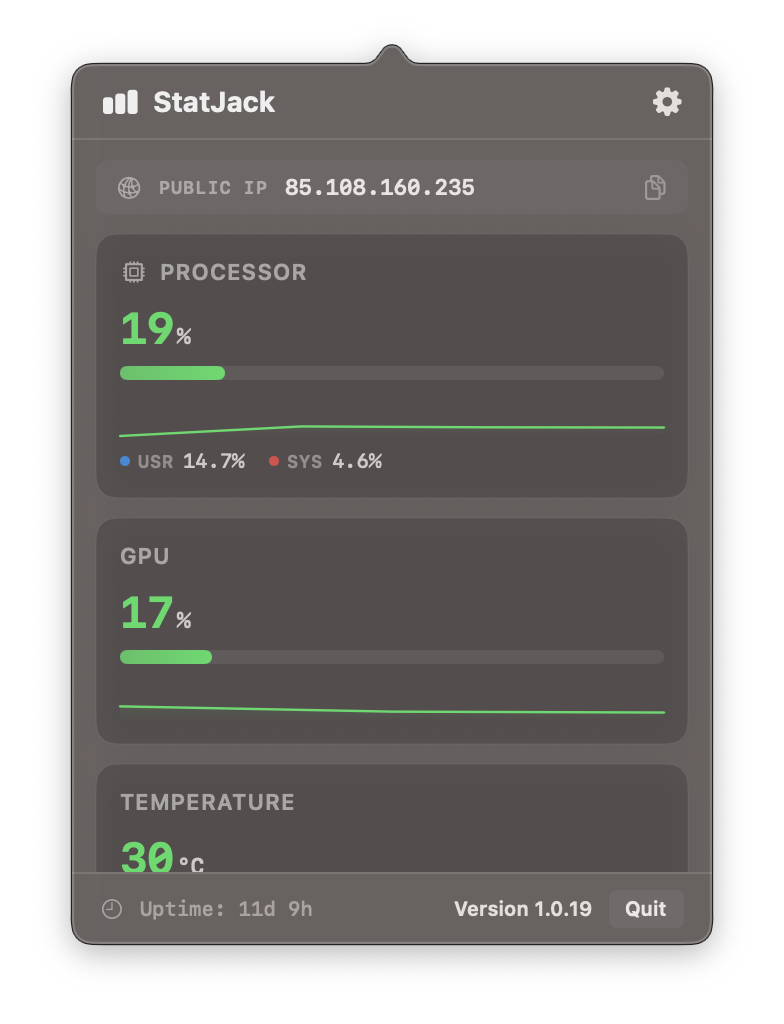
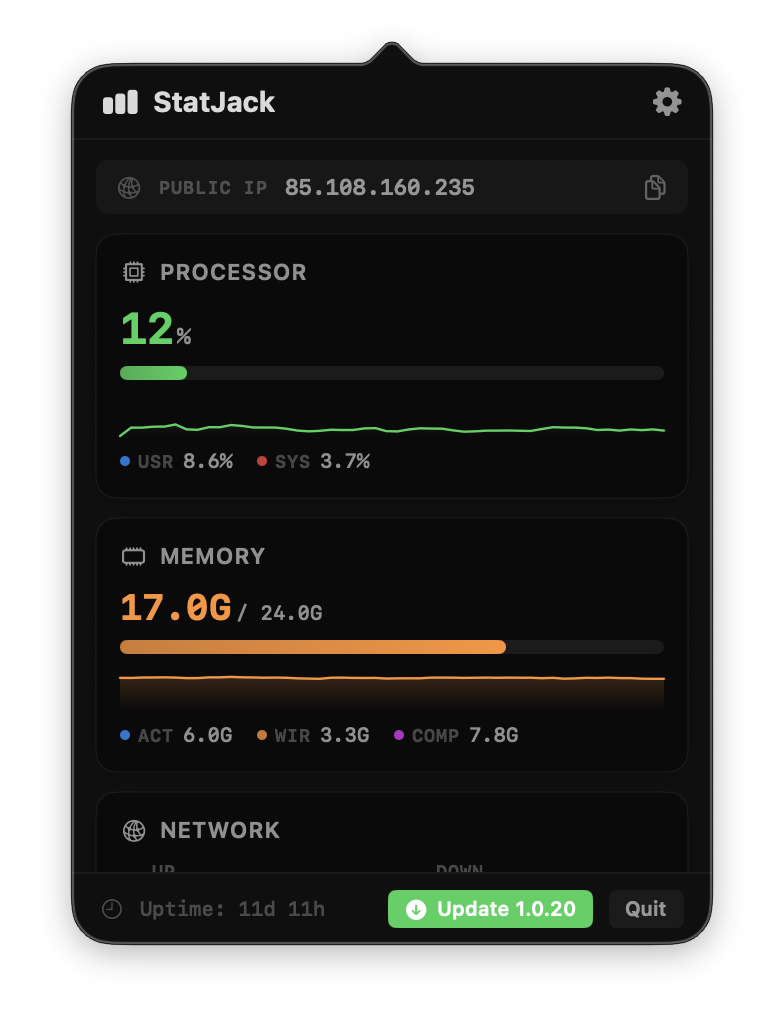
Drop CPU Badge, refresh README screenshots, bust shields cache
- Remove the Dock-icon CPU badge feature entirely. NSDockTile.badgeLabel
  rendering is unreliable for menu-bar agent apps that toggle activation
  policy at runtime, and there's no clean fix without bigger surgery.
  Drops the AppSettings.showDockBadge flag, the Dock-section toggle row,
  and the AppDelegate updateDockBadge plumbing. dockTile.badgeLabel is
  cleared once on launch in case a previous version left a stale label.
- README screenshots: replace dashboard.png with the post-1.0.20 view,
  add extras.png (GPU + Temperature) and alerts.png (threshold sliders +
  in-app update button). Drop the obsolete settings.png.
- Add cb=2 query to the shields.io download/release badges so GitHub's
  camo cache fetches a fresh SVG (current cached version stuck on a much
  older release).

diff --git a/StatJack/AppDelegate.swift b/StatJack/AppDelegate.swift
@@ -29,6 +29,7 @@ final class AppDelegate: NSObject, NSApplicationDelegate, NSPopoverDelegate {
         popover = NSPopover()
         popover.behavior = .transient
         popover.delegate = self
+        popover.appearance = NSAppearance(named: .darkAqua)
         popover.contentSize = NSSize(width: 320, height: 440)
         popover.contentViewController = NSHostingController(
             rootView: ContentView(monitor: monitor)
@@ -41,8 +42,8 @@ final class AppDelegate: NSObject, NSApplicationDelegate, NSPopoverDelegate {
             button.action = #selector(togglePopover(_:))
             button.target = self
             updateMenuBarButton()
-            updateDockBadge()
         }
+        NSApp.dockTile.badgeLabel = nil
 
         let center = NotificationCenter.default
         center.addObserver(self, selector: #selector(settingsChanged),
@@ -63,12 +64,10 @@ final class AppDelegate: NSObject, NSApplicationDelegate, NSPopoverDelegate {
         updateMonitoringMode()
         monitor.refreshNow()
         updateMenuBarButton()
-        updateDockBadge()
     }
 
     @objc private func valuesChanged() {
         updateMenuBarButton()
-        updateDockBadge()
     }
 
     // MARK: - Popover
@@ -83,7 +82,6 @@ final class AppDelegate: NSObject, NSApplicationDelegate, NSPopoverDelegate {
             monitor.refreshNow()
             NSApp.activate(ignoringOtherApps: true)
             popover.show(relativeTo: button.bounds, of: button, preferredEdge: .minY)
-            button.highlight(true)
             focusPopoverWindow()
             startEventMonitor()
             Task { await UpdateChecker.shared.checkForUpdates() }
@@ -99,12 +97,10 @@ final class AppDelegate: NSObject, NSApplicationDelegate, NSPopoverDelegate {
 
     private func closePopover() {
         popover.performClose(nil)
-        statusItem.button?.highlight(false)
         stopEventMonitor()
     }
 
     func popoverDidClose(_ notification: Notification) {
-        statusItem.button?.highlight(false)
         stopEventMonitor()
         updateMonitoringMode()
         monitor.refreshNow()
@@ -145,16 +141,6 @@ final class AppDelegate: NSObject, NSApplicationDelegate, NSPopoverDelegate {
         if policy == .regular {
             NSApp.activate(ignoringOtherApps: true)
         }
-    }
-
-    private func updateDockBadge() {
-        let settings = AppSettings.shared
-        guard settings.showDockIcon && settings.showDockBadge else {
-            NSApp.dockTile.badgeLabel = nil
-            return
-        }
-
-        NSApp.dockTile.badgeLabel = monitor.menuBarCPU
     }
 
     // MARK: - Update Menu Bar

diff --git a/StatJack/Views/SettingsView.swift b/StatJack/Views/SettingsView.swift
@@ -23,24 +23,12 @@ struct SettingsView: View {
             }
 
             MetricCardView(title: "Dock", systemImage: AppIcons.dock, showIcon: false) {
-                VStack(spacing: 0) {
-                    toggleRow(
-                        title: "Dock Icon",
-                        subtitle: "Show StatJack in the Dock",
-                        icon: AppIcons.dock,
-                        isOn: $settings.showDockIcon
-                    )
-
-                    Divider().opacity(0.2).padding(.vertical, 2)
-
-                    toggleRow(
-                        title: "CPU Badge",
-                        subtitle: "Show CPU percentage on the Dock icon",
-                        icon: AppIcons.cpu,
-                        isOn: $settings.showDockBadge,
-                        disabled: !settings.showDockIcon
-                    )
-                }
+                toggleRow(
+                    title: "Dock Icon",
+                    subtitle: "Show StatJack in the Dock",
+                    icon: AppIcons.dock,
+                    isOn: $settings.showDockIcon
+                )
             }
 
             // Menu Bar Display
@@ -181,7 +169,7 @@ struct SettingsView: View {
 
             Toggle("", isOn: isOn)
                 .toggleStyle(.switch)
-                .controlSize(.mini)
+                .controlSize(.small)
                 .labelsHidden()
                 .disabled(disabled)
                 .allowsHitTesting(false)
@@ -227,7 +215,7 @@ struct SettingsView: View {
 
                 Toggle("", isOn: isOn)
                     .toggleStyle(.switch)
-                    .controlSize(.mini)
+                    .controlSize(.small)
                     .labelsHidden()
                     .allowsHitTesting(false)
             }

diff --git a/StatJack/Views/Components/UsageBarView.swift b/StatJack/Views/Components/UsageBarView.swift
@@ -6,6 +6,11 @@ struct UsageBarView: View {
     let height: CGFloat
     let showLabel: Bool
 
+    /// Animation is suppressed on the very first render so a freshly-appearing
+    /// bar (e.g. GPU / Temp when the popover opens for the first time) doesn't
+    /// slide in from 0 — we want it to appear at its real width instantly.
+    @State private var enableAnimation = false
+
     init(percentage: Double, height: CGFloat = 8, showLabel: Bool = false) {
         self.percentage = min(max(percentage, 0), 100)
         self.height = height
@@ -24,7 +29,7 @@ struct UsageBarView: View {
                     RoundedRectangle(cornerRadius: height / 2)
                         .fill(AppColors.usageGradient(for: percentage))
                         .frame(width: max(0, geometry.size.width * percentage / 100))
-                        .animation(.easeInOut(duration: 0.5), value: percentage)
+                        .animation(enableAnimation ? .easeInOut(duration: 0.5) : nil, value: percentage)
                 }
             }
             .frame(height: height)
@@ -35,7 +40,13 @@ struct UsageBarView: View {
                     .foregroundStyle(AppColors.usageColor(for: percentage))
                     .frame(width: 40, alignment: .trailing)
                     .contentTransition(.numericText())
-                    .animation(.easeInOut, value: Int(percentage))
+                    .animation(enableAnimation ? .easeInOut : nil, value: Int(percentage))
+            }
+        }
+        .onAppear {
+            Task { @MainActor in
+                try? await Task.sleep(for: .milliseconds(120))
+                enableAnimation = true
             }
         }
     }

diff --git a/StatJack/Models/AppSettings.swift b/StatJack/Models/AppSettings.swift
@@ -71,14 +71,6 @@ final class AppSettings {
         }
     }
 
-    /// Show CPU percentage as the Dock icon badge
-    var showDockBadge: Bool {
-        didSet {
-            UserDefaults.standard.set(showDockBadge, forKey: "showDockBadge")
-            notifyChanged()
-        }
-    }
-
     /// Launch StatJack automatically when you log in
     var launchAtLogin: Bool {
         didSet {
@@ -149,7 +141,6 @@ final class AppSettings {
         self.showGPU = defaults.object(forKey: "showGPU") as? Bool ?? false
         self.showTemperature = defaults.object(forKey: "showTemperature") as? Bool ?? false
         self.showDockIcon = defaults.object(forKey: "showDockIcon") as? Bool ?? false
-        self.showDockBadge = defaults.object(forKey: "showDockBadge") as? Bool ?? false
         self.launchAtLogin = SMAppService.mainApp.status == .enabled
         self.cpuAlertEnabled = defaults.object(forKey: "cpuAlertEnabled") as? Bool ?? false
         self.cpuAlertThreshold = defaults.object(forKey: "cpuAlertThreshold") as? Double ?? 90

diff --git a/StatJack/Services/SystemMonitor.swift b/StatJack/Services/SystemMonitor.swift
@@ -142,10 +142,9 @@ final class SystemMonitor {
         guard !collectAllMetrics else { return (true, true, true, true) }
 
         let settings = AppSettings.shared
-        let needsDockCPU = settings.showDockIcon && settings.showDockBadge
-        guard !settings.iconOnly else { return (needsDockCPU, false, false, false) }
+        guard !settings.iconOnly else { return (false, false, false, false) }
         let extras = settings.showGPU || settings.showTemperature
-        return (settings.showCPU || needsDockCPU, settings.showRAM, settings.showNetwork, extras)
+        return (settings.showCPU, settings.showRAM, settings.showNetwork, extras)
     }
 
     private func apply(_ sample: SystemSample) {

diff --git a/StatJack/Views/ContentView.swift b/StatJack/Views/ContentView.swift
@@ -35,10 +35,10 @@ struct ContentView: View {
                         VStack(spacing: 10) {
                             PublicIPRow()
                             CPUView(monitor: monitor)
-                            GPUView(monitor: monitor)
-                            ThermalView(monitor: monitor)
                             MemoryView(monitor: monitor)
                             NetworkView(monitor: monitor)
+                            GPUView(monitor: monitor)
+                            ThermalView(monitor: monitor)
                         }
                         .padding(.horizontal, 12)
                         .padding(.top, 10)

diff --git a/StatJack/Views/Components/MetricCardView.swift b/StatJack/Views/Components/MetricCardView.swift
@@ -48,7 +48,7 @@ struct MetricCardView<Content: View>: View {
 
     private var cardFill: Color {
         if colorScheme == .dark {
-            return Color.black.opacity(0.16)
+            return Color.black.opacity(0.30)
         }
         return Color.black.opacity(0.03)
     }

diff --git a/README.md b/README.md
@@ -8,11 +8,11 @@
 
 <p align="center">
   <a href="https://github.com/burakereno/statjack/releases/latest/download/StatJack.dmg">
-    <img src="https://img.shields.io/badge/Download-StatJack.dmg-22c55e?style=for-the-badge&logo=apple&logoColor=white" alt="Download StatJack.dmg" height="48">
+    <img src="https://img.shields.io/badge/Download-StatJack.dmg-22c55e?style=for-the-badge&logo=apple&logoColor=white&cb=2" alt="Download StatJack.dmg" height="48">
   </a>
   &nbsp;
   <a href="https://github.com/burakereno/statjack/releases/latest">
-    <img src="https://img.shields.io/github/v/release/burakereno/statjack?style=for-the-badge&label=Latest&color=2563eb" alt="Latest release" height="48">
+    <img src="https://img.shields.io/github/v/release/burakereno/statjack?style=for-the-badge&label=Latest&color=2563eb&cb=2" alt="Latest release" height="48">
   </a>
 </p>
 
@@ -38,13 +38,17 @@
 ## Screenshots
 
 <p align="center">
-  <img src="docs/dashboard.png" alt="Dashboard with CPU, GPU, Temperature, Memory, Network and the Public IP chip" width="340">
+  <img src="docs/dashboard.png" alt="Dashboard with Public IP, CPU, Memory and Network" width="320">
   &nbsp;&nbsp;
-  <img src="docs/settings.png" alt="Settings with Startup, Dock and Menu Bar Display sections" width="340">
+  <img src="docs/extras.png" alt="GPU and Temperature cards with sparklines" width="320">
 </p>
 
 <p align="center">
-  <sub>Dashboard (left) — sparklines under each metric, Public IP chip at the top. Settings (right) — Startup, Dock and Menu Bar Display sections.</sub>
+  <img src="docs/alerts.png" alt="Threshold alerts and About card with the in-app update button" width="320">
+</p>
+
+<p align="center">
+  <sub>CPU / Memory / Network with live sparklines · GPU + temperature for Apple Silicon · per-metric threshold notifications and one-click in-app updates.</sub>
 </p>
 
 ## Installation
